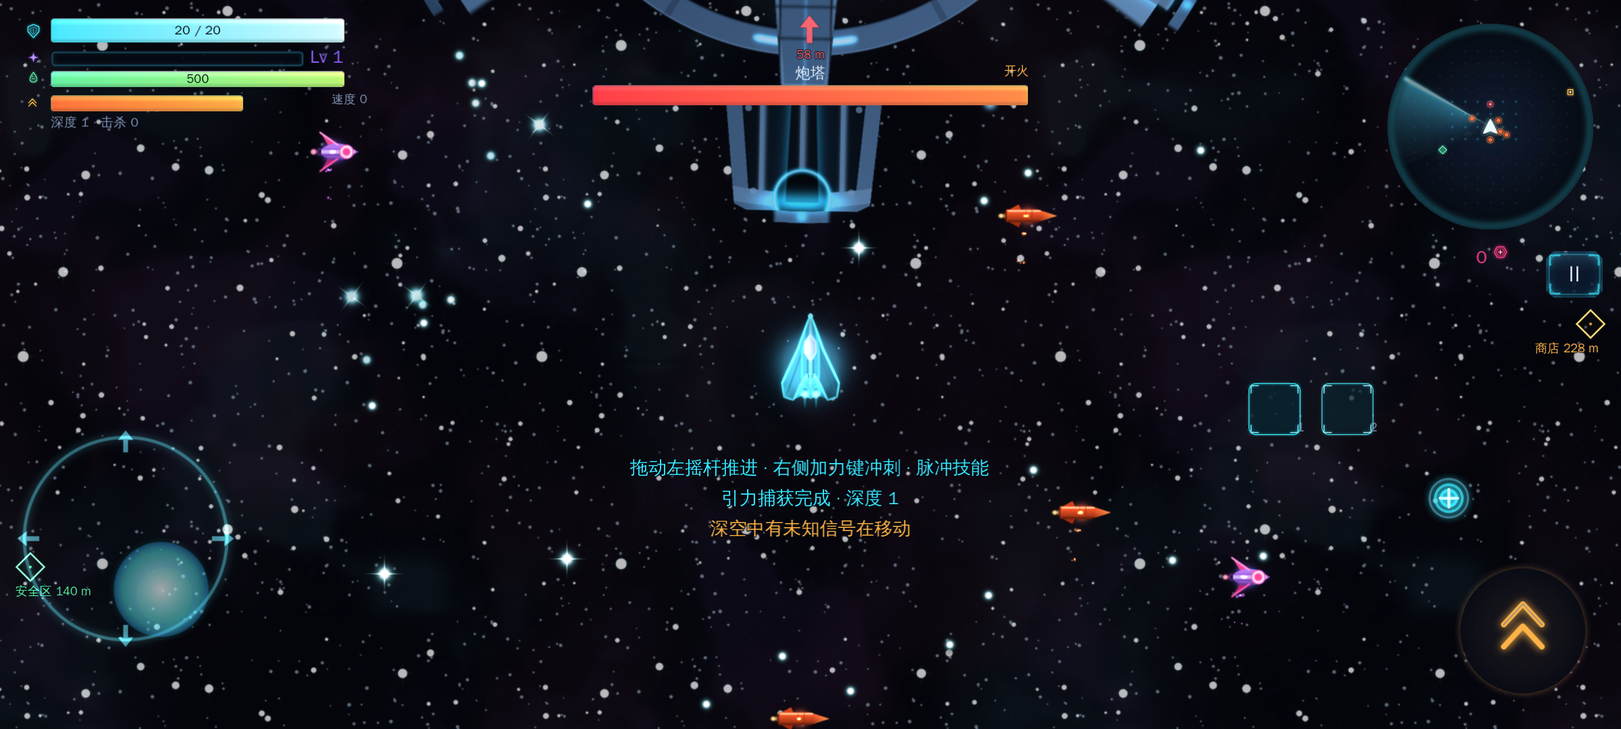
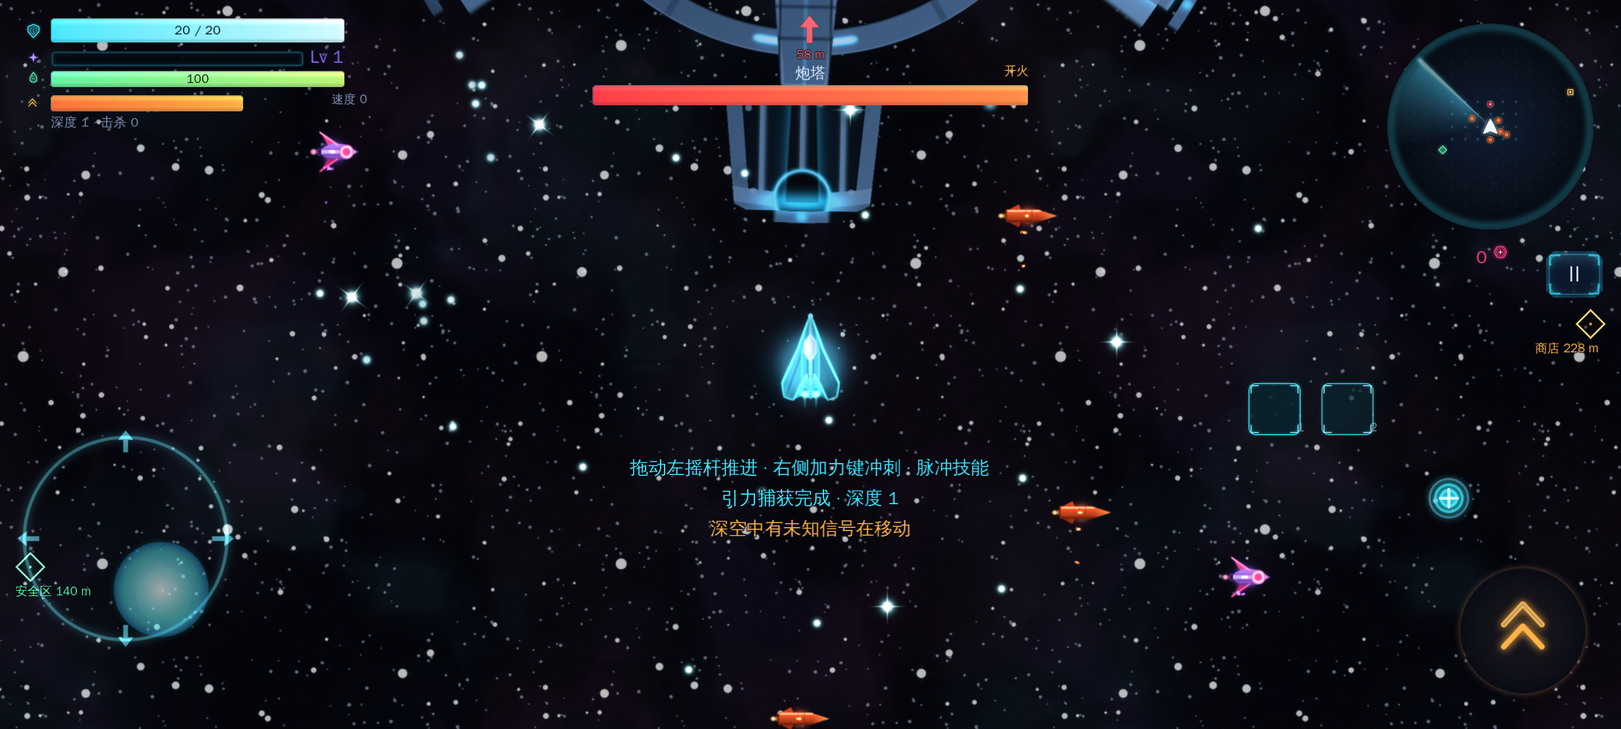
docs(1.4.0): 同步更新日志、设计对照、QA、截图与自测输出

diff --git a/docs/QA.md b/docs/QA.md
@@ -1,6 +1,6 @@
 # QA / 验证记录
 
-日期：2026-11-21 · 版本：1.3.0 · 引擎：Godot 4.7.2 stable
+日期：2026-11-21 · 版本：1.4.0 · 引擎：Godot 4.7.2 stable
 环境：Linux x86_64 · Godot headless + Xvfb/llvmpipe · JDK 17 (Temurin 17.0.21) · Android SDK build-tools 35 / platform 35
 
 ---
@@ -11,28 +11,28 @@
 godot --headless --path . -- --selftest
 ```
 
-完整输出：`docs/selftest_output.txt`（248 项断言 + 机器人明细）。
+完整输出：`docs/selftest_output.txt`（258 项断言 + 机器人明细）。
 
 ```
-RESULT: 248 checks, 0 failed
+RESULT: 258 checks, 0 failed
 ```
 
 **导出包内自测**（同一套脚本，从内嵌 PCK 运行）：
 
 ```bash
 ./build/linux/EscapeGravity.x86_64 --headless -- --selftest
-# RESULT: 248 checks, 0 failed
+# RESULT: 258 checks, 0 failed
 ```
 
 覆盖面：
 
-- 物理：太空无阻力（松开推进 2 秒仍保持速度）、引擎极速 150（超过后推进不把惯性压回）、加力 3× 推力 / 192 极速、燃料按实际 Δv 计（到极速后按住推进不耗油，滑行免费）、加力槽 6.6s 与 0.7s 后回充（推进中同样回充，耗尽需先松开）、碰撞半径 40 / 12 / 护盾 20
+- 物理：太空无阻力（松开推进 2 秒仍保持速度）、引擎极速 150（超过后推进不把惯性压回）、加力 3× 推力 / 192 极速、燃料按实际 Δv 计（到极速后按住推进不耗油，滑行免费）、燃料槽 100（1.4.0 由 500 收紧）、加力槽 6.6s 与 0.7s 后回充（推进中同样回充，耗尽需先松开）、碰撞半径 40 / 12 / 护盾 20
 - 环绕加速：1.9R 切线进入行星引力圈，20 秒内峰值速度 >250、离开后仍 >180；深空滑行 300 速度 2 秒不衰减、不耗油
 - 安全区停靠：以 600 速度进入 R78 触发圈，扩张到 R280 后辅助装置刹停，最终速度 <20 且仍在圈内；以 650 切向掠过也会被捕获井吸进圈内
 - 引力：表面 285、内圈 395、3R 截止、辅助操作装置平衡恒星引力、锁定中的导弹仍受引力弯折（0.6×）
-- 导弹：速度/转向率/5s 脱锁/半径、命中 25、过载 2.5s、两发摧毁 50 血炮塔
+- 导弹：速度/转向率/5s 脱锁/半径、命中 25、过载 2.5s、两发摧毁 50 血炮塔；**1.4.0 新增**——锁定期不会穿进敌舰外壳（最小间隙 11.5px）、贴壳横向绕飞、来源敌人在锁定中免碰撞而脱锁后能撞回它
 - 陨石：0.5 磨损、撞飞后对敌 5、受飞船引力
-- 物质：大 3 XP、超 260 不吸、150 内被吸、高速远离仍被追上吸收、20 XP/级
+- 物质：大 3 XP、超 260 不吸、150 内被吸、高速远离仍被追上吸收、100 XP/级（1.4.0 由 20 ×5）
 - 区域：安全区进入前 R78、扩张瞬间 R280（贴图仍在缩小状态）、补满/清弹/隐藏；**离开安全区不再启动倒计时刷新**；高速切线掠过仍被吸入停靠、径向高速进入也能停靠；商店 3 件且不回燃料
 - 出生区：开局同时预置路线首段安全区（与首个敌人保持 1220px 间距）与首个商店，不需要首杀解锁；首个敌人按路线生成；开局之后**只有击败敌人才刷新修整区**
 - 修整区刷新（`_test_rest_zone_refresh`，1.1.0 新增 14 项断言）：敌前没有修整区 / 空场 30s 不会有倒计时刷新 / 击杀后安全区与商店**立即**刷新且互不重叠 / 离开安全区不启动倒计时、离开 20s 仍无 / 商店内击杀挂起并在离开时补刷 / 安全区内击杀挂起并在离开时补刷
@@ -41,10 +41,12 @@ RESULT: 248 checks, 0 failed
 - 物品/升级：2 格、满栏销毁、5 格上限后无栏位卡、技能满后无新技能卡；游玩中升级只累积 `pending_levels`、不弹面板，进入安全区才开面板，停靠期间新攒的等级立即补开；安全区进站即补满燃料，满油时不再出燃料卡（权重 0），燃料不足时仍出；物品栏扩建只看栏位是否还能扩——2 格背包装满时同样能抽到，背包没满也能抽到
 - 撞击：撞敌人为同速天体的 1.5 倍、伤害随速度升高、撞敌人与撞天体单次都封顶 5、法线速度低于 40 不掉护盾
 - 技能：脉冲 10 燃料 / 200 冲量 / 脱锁 / 5s CD / 按移动方向左右偏转（静止按面向）；诱饵抵达脱锁；干扰弹偏转
-- **敌人生态（1.3.0，`_test_new_enemies` / `_test_enemy_ammo` / `_test_elite_affixes` / `_test_content_smoke`）**：五种主敌人按 `(depth-1)%5` 轮换；深层血量斜率 +14%/层；偏导母舰正面 25→5 且不过热、舰尾 37.5 暴击 + 4 秒过热；引力阱舰斥力只推偏 <260 的导弹、虹吸把导弹吸向舰体、虹吸结束蓄满 3 发齐射；双子成对刷新、间距 750、受击 3 秒后联动回血、击毁一座后遭遇战继续且深度不推进、两座都倒下才推进；二段加速弹 110→340 px/s 与 0.9→0.12 rad/s；子母分裂弹分裂成 3 枚 12 伤无锁弹头；拦截点防吃低速弹、被 400 px/s 凿穿；相位跃迁跳到侧翼 900px；超载殉爆一次抛 6 枚水雷；八层内容冒烟把五种敌人实际跑过模拟
+- **敌人生态（1.3.0，`_test_new_enemies` / `_test_enemy_ammo` / `_test_elite_affixes` / `_test_content_smoke`）**：五种主敌人按 `(depth-1)%5` 轮换；深层血量斜率 +14%/层；偏导母舰正面 25→5 且不过热、舰尾 37.5 暴击 + 4 秒过热；引力阱舰斥力只推偏 <260 的导弹、虹吸把导弹吸向舰体、虹吸结束蓄满 3 发齐射；双子成对刷新、节点间距 1500（1.4.0 由 750 翻倍）、受击 3 秒后联动回血、击毁一座后遭遇战继续且深度不推进、两座都倒下才推进；二段加速弹 110→340 px/s 与 0.9→0.12 rad/s；子母分裂弹分裂成 3 枚 12 伤无锁弹头；拦截点防吃低速弹、被 400 px/s 凿穿；相位跃迁跳到侧翼 900px；超载殉爆一次抛 6 枚水雷；八层内容冒烟把五种敌人实际跑过模拟
 - **核心改装（1.3.0，`_test_core_mods`）**：引力涡轮环绕回 3 燃料、相对论弹头 400 px/s → +32 伤、近炸增幅 130px 内翻倍到 50 并回 1.5 盾、惯性制导 12° 微偏、连锁殉爆只影响 450px 内、质量投射器脉冲轰飞陨石且撞击 18、木马协议把无人机骇入成 560 px/s、引力碎星带撞陨石不掉血不减速、共振奇点提速 60% 且刷新寿命、回收反应堆 -0.8s/+3 燃料、战地整备 3 秒免费加力
 - **觉醒与替换（1.3.0，`_test_awakenings`）**：Lv3 技能进入觉醒池、觉醒后 Lv4 且记录分支、聚能扇面推向机头、零点静滞打断齐射并延长过热、残影诱饵 3 秒信标、镜像双生两枚信标、双极锚定沿切线甩弹、技能槽满选新技能进入替换流程并继承一半等级
 - **商店与升级池（1.3.0，`_test_shop_shelves` + `_test_inventory_and_upgrades`）**：固定三货架的 offer 类型与价格区间、黑市必出改装/觉醒、购买扣代币且改装即时生效、现场维修回满护盾不占背包、满包购买进入丢弃替换并回到商店面板；`fuel_25` 已从池中移除、`eco_cruise` 降到 0.88 且 5 折后不再出现
+- **键位提示（1.4.0，`_test_input_hints`）**：键鼠时 `hint()` 只返回 Shift/F/Esc，手柄时只返回 RB/X/Start；方向键已绑定 `card_1~3`；按下键盘会自动切回键盘键位。
+- **升级卡说明（1.4.0，`_test_upgrade_card_fit`）**：短说明保持 15px；超长说明自动缩到 10~14px，且实测排版高度不超过说明区，不再被卡片底边裁掉。
 - 自杀无人机（`_test_drones`，1.2.0 新增 23 项断言）：成对刷新、屏幕外入场、锁定额度 6、满额停刷、速度 460 + 低转向率、视野内有安全区/商店时停刷、撞玩家 5 伤害并当场解体、近身掠过后被甩开且永久脱锁、脱锁不占锁定名额、5 秒锁定上限、撞敌人 5 伤害后解体、安全区驱离圈推开、贴本体解体、脉冲原地解体、刷新计时器接线
 - 死亡：燃料耗尽 12s 判负、导弹 25 击穿 20 护盾、复活币恢复 8
 - 地图：隐藏路线不回头（每段沿主方向前进）、每段经过天体引力圈、42% 尝试把天体放进两个敌人之间的空白路径且避开安全区/商店/敌人、两个敌人之间必有安全区、安全区离两侧敌人≥1150 且刷新时避开当前敌人、商店比安全区离路线更远；初始安全区/商店/敌人按路线落位；敌人按路线顺序刷新
@@ -72,8 +74,8 @@ RESULT: 248 checks, 0 failed
 
 ## 2. 导出包验证
 
-> **1.3.0**（2026-11-21）：源码自测 **248/248**，Linux / Windows / Android 全部本地重新导出并验证，13 张桌面截图 + 1 张移动端 20:9 截图由导出包重新生成，`dist/` 1.3.0 发行包已打包（含 SHA256SUMS）。
-> Android 本次**已重建**：versionCode **15** / versionName `1.3.0`，用项目密钥签名并通过 v2 + v3 校验。
+> **1.4.0**（2026-11-21）：源码自测 **258/258**，Linux / Windows / Android 全部本地重新导出并验证，13 张桌面截图 + 1 张移动端 20:9 截图由导出包重新生成，`dist/` 1.4.0 发行包已打包（含 SHA256SUMS）。
+> Android 本次**已重建**：versionCode **16** / versionName `1.4.0`，用项目密钥签名并通过 v2 + v3 校验。
 > **未上传到 OpenList**（保持“用户明确要求才发”的约定）。
 
 ### 2.1 Linux（验证打包完整性）
@@ -83,13 +85,13 @@ xvfb-run -a -s "-screen 0 1280x720x24" \
   ./build/linux/EscapeGravity.x86_64 -- --shots=/tmp/shots
 ```
 
-- 1.3.0 导出后在 Xvfb + llvmpipe 下真实运行，退出码 0；**13 张桌面截图**全部由导出包渲染产生（含新增的 `13_aegis` 偏导母舰正面护盾与 `14_twin` 双子中继站 + 超载水雷），已复制到 `docs/shots/`。
-- 导出包内自测：`./build/linux/EscapeGravity.x86_64 --headless -- --selftest` → `RESULT: 248 checks, 0 failed`。
+- 1.4.0 导出后在 Xvfb + llvmpipe 下真实运行，退出码 0；**13 张桌面截图**全部由导出包渲染产生（含 `13_aegis` 偏导母舰正面护盾与 `14_twin` 双子中继站 + 超载水雷），已复制到 `docs/shots/`。
+- 导出包内自测：`./build/linux/EscapeGravity.x86_64 --headless -- --selftest` → `RESULT: 258 checks, 0 failed`。
 - 标题、中文字体、贴图、音频、脚本均从内嵌 PCK 加载；无缺失贴图警告。
-- `build/linux/EscapeGravity.x86_64` = 97,738,280 bytes，ELF x86-64（1.3.0 导出）。
+- `build/linux/EscapeGravity.x86_64` = 97,747,000 bytes，ELF x86-64（1.4.0 导出）。
 - 触屏 20:9 截图另用 `--resolution 2400x1080 -- --touch --shots=...` 生成，取 `04_battle` 作为 `docs/shots/12_touch.png`；触屏按钮仍按“加力 → 技能 → 物品栏”纵向排列，HUD 的改装芯片行在左上角条组下方，不与摇杆/按钮重叠。
 
-### 2.2 Windows（1.3.0 本地导出验证）
+### 2.2 Windows（1.4.0 本地导出验证）
 
 ```bash
 file build/windows/EscapeGravity.exe
@@ -97,10 +99,10 @@ file build/windows/EscapeGravity.exe
 python3 -c "d=open(...).read(); print(b'GDPC' in d[-4096:])"   # True
 ```
 
-- 1.3.0 本地导出：133,422,328 bytes，PE32+ x86-64，尾部 `GDPC` 校验通过；单文件、内嵌 PCK，无外部依赖；文件/产品版本元数据同步升到 `1.3.0.0`。
+- 1.4.0 本地导出：133,431,048 bytes，PE32+ x86-64，尾部 `GDPC` 校验通过；单文件、内嵌 PCK，无外部依赖；文件/产品版本元数据同步升到 `1.4.0.0`。
 - 未做商业代码签名（没有证书），首次运行会有 SmartScreen 提示。
 
-### 2.3 Android（1.3.0 本地重建并签名）
+### 2.3 Android（1.4.0 本地重建并签名）
 
 ```bash
 aapt2 dump badging build/android/EscapeGravity.apk
@@ -108,7 +110,7 @@ apksigner verify --verbose --print-certs build/android/EscapeGravity.apk
 ```
 
 ```
-package: name='com.escapegravity.game' versionCode='15' versionName='1.3.0'
+package: name='com.escapegravity.game' versionCode='16' versionName='1.4.0'
 minSdkVersion:'24'
 targetSdkVersion:'36'
 native-code: 'arm64-v8a'
@@ -119,7 +121,7 @@ Verified using v3 scheme (APK Signature Scheme v3): true
 Number of signers: 1
 ```
 
-- APK：50,959,204 bytes；含全部 `assets/`（贴图、字体、WAV、脚本 `.gdc`、场景）。
+- APK：50,967,396 bytes；含全部 `assets/`（贴图、字体、WAV、脚本 `.gdc`、场景）。
 - 权限：无危险权限（只有 Godot/模板默认项）。
 - 未在真机运行（本机无 Android 设备）；静态检查 + 签名验证通过，Linux 导出包已验证同一套 PCK 的运行时行为。
 - CI 仍会额外导出 `EscapeGravity-debug.apk`（临时调试密钥签名）并上传为 `EscapeGravity-android-debug` 工件，它只是测试包，不是这里用项目密钥签名的发行 APK。
@@ -130,12 +132,12 @@ Number of signers: 1
 
 | 文件 | 大小 |
 |---|---|
-| `EscapeGravity-1.3.0-windows-x86_64.zip` | 61,544,673 bytes |
-| `EscapeGravity-1.3.0-linux-x86_64.tar.gz` | 51,870,215 bytes |
-| `EscapeGravity-1.3.0-android-arm64.apk` | 50,959,204 bytes |
+| `EscapeGravity-1.4.0-windows-x86_64.zip` | 61,553,698 bytes |
+| `EscapeGravity-1.4.0-linux-x86_64.tar.gz` | 51,879,168 bytes |
+| `EscapeGravity-1.4.0-android-arm64.apk` | 50,967,396 bytes |
 | `SHA256SUMS.txt` | 覆盖以上文件与 `ANDROID-安装说明.txt` |
 
-> **1.3.0 未上传到 OpenList**。上一次 NAS 分发仍是 1.0.9：
+> **1.4.0 未上传到 OpenList**。上一次 NAS 分发仍是 1.0.9：
 > - `dist/EscapeGravity-1.0.9-windows-x86_64.zip`：60,168,030 bytes，SHA-256 `b32f54b4…f3cd5f73`
 > - `dist/EscapeGravity-1.0.9-android-arm64.apk`：49,566,968 bytes，SHA-256 `0cbaeea9…db305cc3`
 > - 直链：<https://files.thisisxd.top/d/EscapeGravity-1.0.9-windows-x86_64.zip>、<https://files.thisisxd.top/d/EscapeGravity-1.0.9-android-arm64.apk>
@@ -174,7 +176,7 @@ src/main.gd:209:	await RenderingServer.frame_post_draw
 
 ## 5. 界面检查
 
-> 以下截图均由 **1.3.0 Linux 导出包**重新生成（导出包真实运行，不是编辑器截图）。
+> 以下截图均由 **1.4.0 Linux 导出包**重新生成（导出包真实运行，不是编辑器截图）。
 
 - 16:9（1280×720）：标题、玩法、设置、战斗、暂停、安全区、商店、升级、结算、威胁弧、爆炸、偏导母舰、双子中继站 —— **13 张**截图见 `docs/shots/`；商店截图里能直接看到三货架（补给 1~2 / 战术 3~4 / 黑市 5~7）。
 - 20:9（2400×1080 / 逻辑 1600×720，触屏）：标题按钮按屏幕中心锚定；右侧控制列自下而上为加力 150、技能 92×2、物品栏，代币读数在雷达下方，互不重叠；新增的改装芯片行在左上角条组下方，不侵入摇杆/按钮区域。
@@ -187,7 +189,7 @@ src/main.gd:209:	await RenderingServer.frame_post_draw
 ## 6. 未验证 / 限制
 
 - Android 真机（触屏、帧率、音频输出、刘海/手势条适配）。
-- 实体手柄（代码按 InputMap 标准映射实现，未接真机）。
+- 实体手柄（代码按 InputMap 标准映射实现，未接真机；键位提示的键鼠/手柄切换由自测模拟验证）。
 - 人耳试听（BGM/SFX 为 numpy 合成；已做电平/循环/首尾检查，见 `docs/audio_report.md`）。
 - 长时间运行的内存/性能曲线（交易、深度 20+、200+ 物质、多个导弹）。
 - Windows 实机（无 Wine/Windows 环境）；PE 头、PCK 标记、导出流程已验证。

diff --git a/AGENTS.md b/AGENTS.md
@@ -6,7 +6,7 @@
 
 《Escape Gravity》是一款 2D 俯视角、物理驱动、**没有直接攻击**的太空肉鸽。玩家只能推进、加力、释放技能，靠诱导敌人自己的追踪导弹撞上敌人来造成伤害。
 
-- 当前版本：**1.3.0**
+- 当前版本：**1.4.0**
 - 引擎：**Godot 4.7.2 stable**，GL Compatibility 渲染器
 - 逻辑分辨率：**1280×720**，`canvas_items` 拉伸 + `expand` 适配宽屏/刘海屏
 - 目标平台：**Windows x86_64**、**Android arm64-v8a（横屏）**
@@ -93,10 +93,11 @@ escape-gravity-release/
 
 ## 关键玩法不变量
 
-这些行为是 1.0.8 从 1.0.5 基线重做、1.0.9 调整过升级与撞击、1.1.0 把修整区改为击杀即刷新、1.2.0 增加自杀无人机、1.3.0 扩充敌人生态与肉鸽流派后的基线，别无意改回去：
+这些行为是 1.0.8 从 1.0.5 基线重做、1.0.9 调整过升级与撞击、1.1.0 把修整区改为击杀即刷新、1.2.0 增加自杀无人机、1.3.0 扩充敌人生态与肉鸽流派、1.4.0 调整成长节奏与导弹绕飞后的基线，别无意改回去：
 
 - **导弹入场**：敌人在视野内时，从炮塔最近的三炮口之一 / 导弹巢前向口、`R+14` 处出膛；被发现的敌人在视野外仍按设计文档从玩家侧向 **820px** 进入。锁定期导弹不与来源敌人碰撞，避免刚出膛自爆。
 - **导弹引力**：锁定中与脱锁后都持续受天体引力（`MISSILE_GRAVITY_SCALE=0.6`）；引力强于转向能力时会把导弹拉离拦截线。只有玩家的辅助装置会平衡恒星引力，别把导弹也豁免。
+- **导弹锁定期绕飞（1.4.0）**：锁定中把所有敌舰外壳当实体障碍。`Missile._avoidance_steer` 在提前 220px 的预测里，如果航向会擦进“外壳 + 弹体 + 26px”就改朝绕壳切线；`Missile._resolve_hull_penetration` 再把位置硬性推回外壳外（外壳 + 弹体 - 0.5px），撞向舰体的速度分量改成切向滑行。**别再退回“只在来源敌人附近做一点偏转”的旧实现**：旧偏转方向算反、而且只处理 `current_enemy`，玩家用引力绕一圈时导弹会从敌人正中间穿过去。绕不开的导弹压进碰撞半径后会在 `_resolve_collisions` 里真的打中敌人；来源敌人在锁定中仍免碰撞（发射豁免），脱锁后才结算，诱导伤害循环不要改没。
 - **敌人刷新与发现**：按 `RunRoute` 预生成顺序取点（首段 1900~2400，之后 2100~2700）；两个敌人位置之间必有一个安全区，商店比安全区离路线更远。路线只用于布局、不渲染；不要改回随机方向刷新。敌人未进入玩家屏幕前不可见、不进雷达/方位/血条；玩家进入 `ENEMY_AGGRO_RANGE=2100` 后以 `1.5×` 速度逼近，贴图进入屏幕的同一帧才算 `discovered`。
 - **未发现也会开火**：`enemy._fire_hidden` 在屏幕边缘外 180~320px 生成偷袭弹，切线初速让它绕弧切入；72% 的方向落在敌人方位 ±57° 内，其余全随机。偷袭弹 `sneak=true`，单独上限 `ENEMY_HIDDEN_MAX=2`，且**不占**正常 3 枚直射名额。别用 `locked_missile_count()` 把它们算进去，否则会挤掉正面齐射、破坏诱导循环。
 - **开局即有安全区与商店**：`_initial_spawn` 先生成路线首段安全区（`route.safe_at(0)`，并消费掉 `next_safe`），再放商店、生成首个敌人；修整区不需要首杀解锁。首段安全区在路线 35% 处、横向偏移 470~600，离飞船通常 ≥800px，不会被 700px 捕获圈在开局就拽走。之后每次击败敌人都由 `_refresh_rest_zones` 调用 `_spawn_safe_respawn` / `_spawn_shop_respawn` 按路线预置点刷新；路线缺失时才回退 `find_unexplored_point(700, 1875)`。不要把补给锁回首杀之后。
@@ -115,15 +116,17 @@ escape-gravity-release/
 - **升级池只出有效卡**：`Defs.roll_upgrades` 里权重 ≤0 的卡一律不进卡池（`slot` 满格、`eco_cruise` 叠到 5 折、`mod_card` 全部改装满层、`skill_awaken` 没有可觉醒技能时都为 0）。`slot` 的条件是 `item_slots < ITEM_SLOTS_MAX`（不是 `inventory.size() < item_slots`，那样背包一满就永远刷不出扩建），背包满时权重 11、未满 6。`skill_new` 不再因为技能槽满而被剔除——它改为带 `replace=true` 进池，由 `State.REPLACE_SKILL` 处理替换。
 - **撞击伤害按速度**：`_resolve_collisions` 用 `ship.bounce_from()` 返回的法线冲击速度，经 `collision_damage()` 把 40~380 px/s 映射到 **0.5~5**；撞敌人 ×1.5，撞敌人与撞天体的最终值都封顶 **5**。擦边（法线速度 <40）不掉血。别退回固定 3~7 的 remap。
 - **自杀无人机（1.2.0）**：`drone.gd` 独立于 `enemies` 数组；460 px/s / 0.22 rad/s（转弯半径约 2090），撞玩家/敌人各 5 伤害并**当场解体**。大转弯半径下玩家靠机动甩开：锁定最多 5s，近身进入 240px 后开始远离立即 `_lose_lock`，`locked=false` 永久生效、不再追踪，残骸直线飞 8s 后消失。`_update_spawns` 每 8s 成对刷新，**玩家视野内有安全区/商店时暂停**，锁定上限 6；`Drone._zone_ward` 用 320px 驱离圈推离、进入区域本体即解体；`_cast_pulse` 范围内直接解体。不要把它并进 `enemies`，否则会破坏主敌人的发现/血条/计数。
-- **五种主敌人随深度轮换（1.3.0）**：`Run.enemy_kind_for_depth` 用 `(depth-1) % 5` 取 `["turret","nest","aegis","singularity","twin"]`；`Run._make_attacker` 统一填属性。**偏导母舰**（R360/HP70/0.35 rad/s）：`Enemy.facing` 追玩家，`apply_hit` 用命中点角度把正面 ±60° 的伤害压到 20%（25→5）且不触发过热，舰尾 ±60° 吃 1.5 倍暴击（37.5）并进入 4 秒长过热；**不要把它改成按距离或按导弹朝向判定**。**引力阱舰**（R320/HP60）：`_rig_fields` 每 7 秒斥力 / 3.5 秒虹吸切换，斥力只推偏速度 <260 的导弹（高速弹凿穿），虹吸同时拉玩家（加速度 260）、导弹与陨石，虹吸结束时 `burst_left` 补齐一次齐射。**双子中继站**（R210×2）：`Run.spawn_enemy` 成对生成并互相 `twin` 链接，leader 用 `_move_pair` 围绕 `pair_center` 以 0.42 rad/s 公转、间距 750；受击设 `heal_delay=3`，若另一座未过热则 `heal_left` 回血；一座倒下后另一座失联暴走（`twin=null`、提速、`elite=true`），**两座都倒下才 `depth += 1` 并刷新修整区**，`kills` 也只记一次。
+- **五种主敌人随深度轮换（1.3.0）**：`Run.enemy_kind_for_depth` 用 `(depth-1) % 5` 取 `["turret","nest","aegis","singularity","twin"]`；`Run._make_attacker` 统一填属性。**偏导母舰**（R360/HP70/0.35 rad/s）：`Enemy.facing` 追玩家，`apply_hit` 用命中点角度把正面 ±60° 的伤害压到 20%（25→5）且不触发过热，舰尾 ±60° 吃 1.5 倍暴击（37.5）并进入 4 秒长过热；**不要把它改成按距离或按导弹朝向判定**。**引力阱舰**（R320/HP60）：`_rig_fields` 每 7 秒斥力 / 3.5 秒虹吸切换，斥力只推偏速度 <260 的导弹（高速弹凿穿），虹吸同时拉玩家（加速度 260）、导弹与陨石，虹吸结束时 `burst_left` 补齐一次齐射。**双子中继站**（R210×2）：`Run.spawn_enemy` 成对生成并互相 `twin` 链接，leader 用 `_move_pair` 围绕 `pair_center` 以 0.42 rad/s 公转、间距 1500（1.4.0 由 750 翻倍）；受击设 `heal_delay=3`，若另一座未过热则 `heal_left` 回血；一座倒下后另一座失联暴走（`twin=null`、提速、`elite=true`），**两座都倒下才 `depth += 1` 并刷新修整区**，`kills` 也只记一次。
 - **新敌方弹药（1.3.0）**：`Run.roll_enemy_ammo` 决定弹种——深度 <3 只出普通弹，深层导弹巢 35% 子母分裂弹，其余按 `min(0.5, 0.10×(depth-2))` 出二段加速弹。二段加速弹前 1.8 秒 110 px/s / 0.9 rad/s，之后 340 px/s / 0.12 rad/s；子母分裂弹在锁定倒计时结束时 `_split()` 成 3 枚 `frag`（无锁、12 伤、7 秒寿命），不要改成“脱锁平飞”。伤害走 `Missile.dmg`，不要再回退到全局 `MISSILE_DMG_ENEMY`；水雷 `mine` 无锁、90~120 px/s、可被脉冲反推。
 - **精英词缀（1.3.0）**：深层血量斜率是 **+14%/层**（`EG.DEPTH_HP_GROWTH`），精英在 `depth >= 6` 且 `(depth-6) % 4 == 0` 出现，×1.45 血 + 齐射 +1，并带一个词缀：`point_defense`（两颗护卫球，每颗每 1.2 秒挡一发，速度 ≥280 的导弹凿穿）、`phase_blink`（过热结束时瞬移到玩家侧翼 900px，双子不抽此词缀）、`volatile`（血量 ×0.7，每次过热向四周抛 6 枚水雷）。别再改回“每 5 层单纯 ×1.6 血”。
 - **核心改装（1.3.0）**：`Run.mods: Dictionary`（id→层数，上限 3），`Defs.MODS` 12 张，分 `gravity/deceive/billiard/trap` 四流派。效果都集中在 `Run._update_mods`、`on_missile_unlock`、`damage_enemy`（连锁殉爆/相对论/超载）、`_resolve_collisions`（回收反应堆）、`_cast_pulse`（质量投射器/木马协议）、`_resonance_tick`（引力锚×诱饵重叠）、`on_decoy_gone`/`on_anchor_gone`（甩射）与 `hit_ship_by_meteor`（引力碎星带）。`ship.boost_free` 由 `_update_mods` 每帧写入，`ship.fuel_cost_mult` 由节能巡航维护。
 - **技能觉醒（1.3.0）**：技能 Lv3 后 `Defs.roll_upgrades` 给 `skill_awaken` 卡；有两条分支的技能（脉冲）先出通用卡，选中后进入 `State.AWAKEN_CHOICE` 二选一（`ui.show_awaken_choice`），单分支技能直接落地。`Run._apply_awaken` 把 `s["awaken"]` 记在技能字典上并把等级设 4；`_cast_*` 用 `skill_awaken("pulse")` 等分支。**不要**把觉醒做成独立技能槽。技能槽满时 `skill_new` 卡仍会刷出并带 `replace=true`，`choose_upgrade` 转入 `State.REPLACE_SKILL` 弹双槽对比，替换后新技能继承原槽一半等级（向下取整、至少 1）。
+- **升级卡说明自适应（1.4.0）**：升级卡 306×430、说明区 254×160；`ui._fit_label` 用 `Font.get_multiline_string_size` 实测排版高度，15px 放不下就逐级缩到 10px。商店行、技能替换、觉醒二选一共用。别再退回固定 15px + 100px 高的说明区（长说明会被卡片底边裁掉）。
+- **PC 手柄键位（1.4.0）**：`Controls._input` 根据最近一次输入设备切 `pad_active` 并发出 `device_changed`；`Controls.hint(action)` 返回当前设备键位，HUD、菜单、所有覆盖层都只显示同一套键位。手柄绑定：左摇杆移动、RB 加力、Y/B 技能、X 使用物品、←/→ 切换物品、Start 暂停、A 结算再来一局、方向键选卡（`card_1~5`）。**RB 不要再同时绑 `item_next`**（会一次触发两件事）。
 - **升级池（1.3.0）**：`fuel_25` 已删除，换成 `eco_cruise`（油耗 ×0.88，叠到 0.5 为止，`ship.fuel_cost_mult` 同步）；燃料上限卡 +40/+80；`slot` 权重背包满 11 / 未满 6；满油时不再出燃料卡这条语义由“删除燃料卡”取代。**别再往池子里加回 `fuel_25`**。
 - **商店三货架（1.3.0）**：`_roll_shop` 固定 3 行——补给位 1~2 代币（护盾补片/备用能源/现场满额维修）、战术道具位 3~4（干扰弹/诱饵弹/紧急充能/引力水雷/加力灌注）、黑市 5~7（必出改装或觉醒）。offer 字典用 `kind`（item/service/mod/awaken）+ `title/desc/rarity/icon/shelf`，`ui._make_shop_row` 只读这些字段。背包满时购买**不再拒买**，直接进入 `State.DESTROY` 丢弃替换，替换后回到商店面板（`destroy_and_take` 里判断 `shop_inside`）。
 
-- **平衡**：初始燃料 **500**；推进 4/s、加力 **4.8/s（1.2×）**（均按实际 Δv），3× 推力，引擎极速 150 / 加力 192，初始槽 **6.6s**；护盾 20。
+- **平衡**：初始燃料 **100**（1.4.0 由 500 收紧）；每级经验 **100**（1.4.0 由 20 ×5）；推进 4/s、加力 **4.8/s（1.2×）**（均按实际 Δv），3× 推力，引擎极速 150 / 加力 192，初始槽 **6.6s**；护盾 20。
 - **状态机**：`PLAYING / LEVELUP / SHOP / DESTROY / DEAD / REPLACE_SKILL / AWAKEN_CHOICE`；暂停由 `main.gd` 控制，`run.paused` 冻结模拟。`REPLACE_SKILL` 是技能槽满时选新技能的双槽对比面板，`choose_skill_replace` / `cancel_skill_replace` 负责收尾；`AWAKEN_CHOICE` 是双分支技能（脉冲）的觉醒二选一，`choose_awaken` / `cancel_awaken_choice` 负责收尾，取消同样退还这次升级。
 - **存档**：`user://escape_gravity.cfg` 只保存设置与历史记录；没有中途存档 / 云存档 / meta 解锁。
 
@@ -169,7 +172,7 @@ python3 tools/make_dist.py --platforms windows,linux
 
 改动运行逻辑后，至少完成：
 
-1. `RESULT: 248 checks, 0 failed`；导出包内再跑一次 `./build/linux/EscapeGravity.x86_64 --headless -- --selftest`。
+1. `RESULT: 258 checks, 0 failed`；导出包内再跑一次 `./build/linux/EscapeGravity.x86_64 --headless -- --selftest`。
 2. 用导出包重新生成截图；桌面 13 张（含 `13_aegis` / `14_twin`）+ 移动端 20:9 一张，检查标题居中、触屏按钮不重叠。
 3. 无运行时绘制审计（应只有 `RenderingServer.frame_post_draw` 一条命中）：
    ```bash
@@ -186,6 +189,7 @@ python3 tools/make_dist.py --platforms windows,linux
 - **换美术**：按 `docs/ART.md` 的同名文件覆盖；若主体占比变化，改碰撞半径或 `enemy.gd` 的缩放分母；重新导入并生成截图。
 - **加技能/道具**：`src/defs.gd` 加定义 → `run.gd` 的 `cast_skill` / `use_item` / 升级池 → `ui.gd` 的图标与文案 → 自测。
 - **改移动端布局**：`ui.gd._build_touch` 与 `menu.gd._button_centered`；必须用 `--touch --resolution 2400x1080` 重新截图。
+- **改键位提示**：`controls.gd` 的 `HINTS` 是唯一键位表（`[键盘, 手柄]`），界面一律用 `Controls.hint(action)` / `ui._key_tag()`；新面板别忘了 `_on_device_changed` 的重画分支。
 - **改敌人 AI**：`enemy.gd.step`（移动/安全区绕行/开火）与 `run.gd._next_enemy_position`（路线刷新）；`_find_enemy_spawn` 只作路线缺失时的回退。不要破坏“视野内炮口、视野外 820”的入场规则。
 - **改地图流式**：`galaxy.gd.ensure_around` / `_generate_chunk`、`route.gd`、`backdrop.gd`、`run.gd._update_spawns` 的物质补充；改完在远点（如 120000px）验证仍有一天体与背景，并跑路线自测。
 - **改文档/截图**：截图由导出包生成，不要用编辑器截图冒充；`docs/.gdignore` 防止 Godot 导入 docs 内的 PNG。
@@ -210,7 +214,7 @@ python3 tools/make_dist.py --platforms windows,linux
 
 - Android 没有真机实测；只做了导出、签名、aapt2 静态检查和同 PCK 的 Linux 运行验证。
 - Windows exe 未做商业代码签名，首次运行可能出现 SmartScreen。
-- 触屏/手柄未做 UI 焦点导航；菜单需要点击/触摸。
+- 触屏/手柄未做 UI 焦点导航：菜单（设置/玩法说明/音量）仍需要点击/触摸；手柄可直接 A 开始、Start 暂停、方向键选卡与 A 再来一局。
 - 仅中文 UI；没有多语言。
 - 激光、中途存档、meta 解锁未实现（技能替换已在 1.3.0 补齐，见 `docs/DESIGN_MAP.md` 的差异 / 取舍表）。
 - 音效为程序化合成占位，未做人耳母带试听。

diff --git a/docs/DESIGN_MAP.md b/docs/DESIGN_MAP.md
@@ -19,12 +19,12 @@
 
 | 项 | 文档 | 实现 |
 |---|---|---|
-| 移动 | 模拟推进器、有惯性；PC 手柄 L/WASD、移动端摇杆 | `ship.gd`：加速度积分 + 阻尼 0.22 + 上限；输入 = 键盘/左摇杆/触屏摇杆 |
+| 移动 | 模拟推进器、有惯性；PC 手柄左摇杆 / WASD、移动端摇杆 | `ship.gd`：加速度积分 + 阻尼 0.22 + 上限；输入 = 键盘/左摇杆/触屏摇杆 |
 | 最高速 | 150 | 硬上限 150；加力时 192 |
 | 推力 | 380 | `SHIP_ACCEL=380` |
 | 飞船/导弹碰撞半径 | 13 / 7（文档） | 40 / 12：按 `ship.png`（可见 111×82）与 `missile.png`（64×28）实际贴图放大；碰撞体与贴图一致 |
 | 加力 | 3× 推力（1140）、1.28× 极速（192）、槽 6.6s（初始 2.2s 的三倍）、0.7s 后回复、剩余 0.22 才可再启、1.2× 燃料 | `ship.step`：`boost_mult`（升级 ×1.07）、`boost_cap`（升级 ×1.1）、回充 1.6/s；只要不在加力就回充（推进中同样），耗尽后需先松开再点火，迟滞 0.22 |
-| 燃料 | 上限 240；推进 4/s，加力 8/s（文档） | 发行调整为上限 500；推进 4/s，加力 4.8/s（1.2×） |
+| 燃料 | 上限 240；推进 4/s，加力 8/s（文档） | 发行调整为上限 **100**（1.4.0 由 500 收紧）；推进 4/s，加力 4.8/s（1.2×） |
 | 引力 | 半径 200~380；M=24e6×(r/290)²；内圈 0.85r 夹紧 395；影响 2r；外侧 15% 平滑 | `gravity_body.gd`；影响半径内计算，外为 0；对飞船/导弹/陨石生效；导弹锁定中也持续受引力（`MISSILE_GRAVITY_SCALE=0.6`） |
 | 天体生成距离 | 1500~3400，出生点在影响圈外 | `galaxy.gd` 区块生成，`_spot_clear` 保证与已有天体 400~900px 间距；初始固定 3 颗风景行星 |
 | 物品栏/技能槽 | 基础 2 格、上限 5；技能 2 槽 | `item_slots`、`skills`；升级卡控制扩容 |
@@ -46,7 +46,7 @@
 | 锁定上限 | 3 枚；超出停火 | `locked_missile_count()` 只数直射弹；炮塔/母舰/阱舰/中继站 3、巢 4；偷袭弹另有 `ENEMY_HIDDEN_MAX=2` 上限 |
 | 过热停火 | 2.5s | 命中即 `overheated=true`，`overheat_timer=2.5` |
 | 导弹入场 | 视野外时垂直于敌人-玩家连线进入 | 被发现的敌人在视野外：玩家侧向 820px；视野内：炮塔最近炮口 / 巢前向口，`R+14` 处出膛，角度朝向玩家 + 0.35s 提前量；未发现：屏幕外弧线偷袭 |
-| 导弹绕开敌人 | 锁定状态下自动尝试绕开敌人，避免刚发射就打自己 | `missile.step`：距敌人 <R+34 且航向向内时施加偏转；锁定时不与来源敌人碰撞 |
+| 导弹绕开敌人 | 锁定状态下把敌舰外壳当实体障碍，绕飞而不是从中间穿过 | `Missile._avoidance_steer`：提前 220px 预测航向，会擦进“外壳 + 弹体 + 26px”就改走绕壳切线（修复旧实现偏转方向算反、且只看 `current_enemy`）；`Missile._resolve_hull_penetration` 硬性把弹体推回外壳外（外壳 + 弹体 - 0.5px）并改成切向滑行；来源敌人在锁定中仍免碰撞（发射豁免），绕不开时压进碰撞半径，脱锁后照常结算伤害 |
 | 自杀无人机 | 小型、高速、大转弯半径；撞玩家/敌人各 5 伤害并解体；靠机动甩开后永久脱锁；视野内无修整区时成对刷新，上限 6；修整区驱离/解体；脉冲解体 | 见 §3.1 |
 
 ### 3.1 自杀无人机（1.2.0）
@@ -73,7 +73,7 @@
 |---|---|---|---|
 | 偏导母舰 Aegis Carrier | R360 / HP70 / 射速 5.0→1.2s / 移速 200→16 | 正面 **120°** 能量盾：命中点落在舰首 ±60° 内伤害 ×0.2（25→5）且不触发过热；舰尾 ±60° 吃 ×1.5 暴击（37.5）并进入 **4 秒**长过热；转向仅 **0.35 rad/s** | `Enemy.facing` 用 `rotate_toward` 追玩家（`EG.AEGIS_TURN`），贴图与 `shield_arc.png` 随 `facing` 旋转；`Enemy.apply_hit(amount, hit_pos)` 用 `wrapf(hit_angle - facing)` 判定三个扇区，`Run.damage_enemy` 只负责表现 |
 | 引力阱舰 Singularity Rig | R320 / HP60 / 齐射 3 / 移速 150→14 | 每 **7 秒**斥力 + **3.5 秒**虹吸；斥力把速度 <260 的导弹推偏擦过；虹吸把玩家（加速度 260）、导弹与陨石一起拉向舰体，结束时打 **3 发**齐射 | `Enemy._rig_fields` 用 `state_timer` 切换 `siphon`；斥力只做位置推挤、吸力同样按位置速度施加（导弹的锁定转向不会被覆盖）；两张预渲染光环 `ring_repel.png` / `ring_siphon.png` 反向旋转 + 呼吸缩放 |
-| 双子中继站 Twin Pylons | 双核各 R210 / HP42 / 齐射 2 | 成对刷新、**750px** 间距、0.42 rad/s 公转；A 受击且 B 未过热时 **3 秒后** A 按每秒 10% 最大生命回血；一座倒下后另一座失联暴走（提速 1.4×、射速加快、`elite=true`），两座都清空才算遭遇战结束 | `Run.spawn_enemy` 连开两个 `Enemy` 并互设 `twin`；leader 的 `_move_pair` 驱动 `pair_center` 与公转角，跟班位置由 leader 直接写入；`Enemy._update_twin_heal` 维护 `heal_delay/heal_left`；`Run.kill_enemy` 只有 `current_enemy == null` 时才 `depth += 1`、掉物质与刷新修整区；HUD 顶部主条 + 副条（`ui._enemy_bar2`）显示两座血量 |
+| 双子中继站 Twin Pylons | 双核各 R210 / HP42 / 齐射 2 | 成对刷新、**1500px** 间距（1.4.0 由 750 翻倍）、0.42 rad/s 公转；A 受击且 B 未过热时 **3 秒后** A 按每秒 10% 最大生命回血；一座倒下后另一座失联暴走（提速 1.4×、射速加快、`elite=true`），两座都清空才算遭遇战结束 | `Run.spawn_enemy` 连开两个 `Enemy` 并互设 `twin`；leader 的 `_move_pair` 驱动 `pair_center` 与公转角，跟班位置由 leader 直接写入；`Enemy._update_twin_heal` 维护 `heal_delay/heal_left`；`Run.kill_enemy` 只有 `current_enemy == null` 时才 `depth += 1`、掉物质与刷新修整区；HUD 顶部主条 + 副条（`ui._enemy_bar2`）显示两座血量 |
 
 ### 3.3 两种新型敌方弹药（1.3.0）
 
@@ -124,7 +124,7 @@
 | 每星域物质 | 200 | 初始 150（按簇分布）+ 每 2s 检查飞船周边 3400px 内数量，不足 130 时在 350~3000px 补 30，上限 280；摧毁敌人额外 42 |
 | 吸取半径 | 260 | `run.absorb_radius=260`；进入即锁定 5s，并以 1200 px/s 直接追向飞船，40px 内拾取 |
 | XP | 小 1 / 大 3 | `MATTER_SMALL_XP/ BIG_XP`；大物质概率 1/3 |
-| 升级曲线 | 固定每 20 XP | `XP_PER_LEVEL=20`；游玩中只累积 `pending_levels`，进入安全区才逐次弹卡（`_enter_safe` → `begin_levelup`） |
+| 升级曲线 | 固定每 100 XP（1.4.0 由 20 ×5） | `XP_PER_LEVEL=100`；游玩中只累积 `pending_levels`，进入安全区才逐次弹卡（`_enter_safe` → `begin_levelup`） |
 | 升级池 | 修复 25%/100%、**节能巡航**、燃料上限 +40/+80、物品栏、代币 1/2/3、加力槽 +10%、加力推力 +7%、获得道具、技能（槽满走替换）、**核心改装**、**技能觉醒** | `Defs.roll_upgrades` 带权抽取，权重 ≤0 的卡不进卡池：`eco_cruise` 叠到 5 折后为 0、5 格后 `slot` 为 0、全部改装满层后 `mod_card` 为 0、没有 Lv3 技能时 `skill_awaken` 为 0；`slot` 只看 `item_slots < ITEM_SLOTS_MAX`，背包满时权重 **11**、未满 **6**；`skill_new` 在槽满时仍进池但带 `replace=true`（见 §5.2 与 §11） |
 
 ### 5.1 核心改装（1.3.0）
@@ -175,6 +175,8 @@
 | 右上雷达 | 商店/安全区/威胁/敌人；超范围显示方向；已探索背景不同 | `ui._build_radar` + `_refresh_radar`；探索格 13×13 贴图；敌人光点只在 `discovered` 后加入 |
 | 顶部中敌人血条 | 同 | `_build_enemy_bar`，430×20；`discovered` 后才显示，视野外标注距离 |
 | 右下物品栏 / 左下技能 | 基础 2 格 | 5 个槽位（未解锁变暗）；触屏改为右侧纵向：底部加力 150px、其上技能 92px×2、再上物品栏；代币读数移到雷达下方 |
+| 键位提示 | PC 键鼠 / 手柄各一套 | `Controls` 记录最近一次输入设备（键盘/鼠标 vs 手柄按键/摇杆，`device_changed` 信号），`hint(action)` 只返回当前设备的键位；HUD、技能角标、物品提示、暂停/商店/升级/替换/觉醒/丢弃/结算全部走它。手柄：左摇杆/RB/Y/B/X/←→/Start/A，方向键选卡 |
+| 升级卡布局 | 说明完整显示 | 卡片 306×430、说明区 254×160；`ui._fit_label` 用 `Font.get_multiline_string_size` 实测排版高度，15px 放不下逐级缩到 10px；商店行、技能替换、觉醒二选一共用 |
 | 威胁位置 | 以玩家为圆心的弧、颜色表示距离；敌人进屏不显示 | `_refresh_threats`；90° 弧带旋转指向最近威胁，红→青 |
 | 边缘方位 | 距屏幕边 20px | `_refresh_markers`；为避免 HUD 角落，沿边做安全区间夹取；敌人未 `discovered` 时不画箭头 |
 | 雷达范围外方向 | 显示方向 | 雷达标记压到边缘 + 屏幕边缘方位标记 |

diff --git a/README.md b/README.md
@@ -1,4 +1,4 @@
-# Escape Gravity · 1.3.0
+# Escape Gravity · 1.4.0
 
 [![Build](https://github.com/Moonlark-Dev/EscapeGravity/actions/workflows/build.yml/badge.svg)](https://github.com/Moonlark-Dev/EscapeGravity/actions/workflows/build.yml)
 [![License: MIT](https://img.shields.io/badge/License-MIT-yellow.svg)](LICENSE)
@@ -13,6 +13,20 @@
 - 许可：**MIT**（见 [`LICENSE`](LICENSE)；字体与引擎的第三方许可见 [`THIRD_PARTY_NOTICES.md`](THIRD_PARTY_NOTICES.md)）
 
 ## 更新日志
+
+### 1.4.0 更新
+
+本版按试玩反馈调整成长节奏与操作体验，并修掉导弹穿过敌舰的穿模。
+
+- **升级更慢**：每级所需经验 **20 → 100（×5）**。同样一局里升级次数明显减少，升级卡的分量更重。
+- **燃料槽收紧**：上限 **500 → 100**。安全区仍会补满燃料，**备用能源（+60）**、燃料上限卡（+40 / +80）与「节能巡航」的价值随之上来；滑行仍然免费。
+- **导弹锁定期改为“绕飞 + 实体外壳”**：锁定中把所有敌舰外壳当成障碍，提前 220px 预测航向、在会擦到外壳时改走切线，并硬性禁止弹体穿进外壳。以前那点偏转方向算反了，玩家用引力快速绕一圈时导弹会直接从敌人正中间穿到另一侧；现在它会贴着外壳滑过去。绕不开的导弹仍会在碰撞结算里真的打在外壳上，脱锁后也照常可以撞回发射者——诱导伤害循环不受影响。
+- **双子节点生成间距 ×2**：双子中继站两座之间的生成/公转间距 **750 → 1500px**，两座不再挤在一起。
+- **PC 手柄键位提示**：`Controls` 记录最近一次真正操作的设备（键盘/鼠标 vs 手柄按键/摇杆），键位提示按设备切换：用手柄时只显示手柄键位（左摇杆、RB、Y/B、X、方向键、Start、A），用键鼠时只显示键盘键位。覆盖 HUD、技能角标、物品提示、暂停/商店/升级/替换/觉醒/丢弃/结算面板。
+- **手柄可操作面板**：方向键（←/↑/→/↓）直接选升级/商店/替换/觉醒/丢弃卡，A 在结算界面再来一局，←/→ 在战斗中切换物品；修正 RB 同时绑定「加力」和「切换物品」的冲突（现在 RB 只加力）。
+- **升级选项说明完整显示**：升级卡从 396 加高到 430，说明区从 100 加高到 160，并按 `Font.get_multiline_string_size` 实测排版高度自动缩字号（15 → 最低 10px）；技能替换、商店货架、觉醒二选一共用同一套自适应，长说明不再被卡片底边裁掉。
+
+自测从 **248** 项增加到 **258** 项断言，全部通过。
 
 ### 1.3.0 更新
 
@@ -136,7 +150,7 @@ escape-gravity-release/
 │   ├── meteor.gd / matter.gd / zone.gd / decoy.gd / anchor.gd / fx.gd
 │   ├── assets.gd / audio.gd / store.gd / controls.gd
 │   ├── backdrop.gd           # 视差星云/星点
-│   └── selftest.gd           # 248 项无头断言 + 机器人可玩性验证
+│   └── selftest.gd           # 258 项无头断言 + 机器人可玩性验证
 ├── assets/                   # world / ui / audio / fonts
 ├── tools/                    # 素材生成、后期、构建、打包
 ├── docs/                     # ART.md / DESIGN_MAP.md / QA.md / 资产清单 / 截图
@@ -159,7 +173,7 @@ escape-gravity-release/
 
 ```bash
 godot --headless --path . -- --selftest
-# RESULT: 248 checks, 0 failed
+# RESULT: 258 checks, 0 failed
 ```
 
 ### 界面
